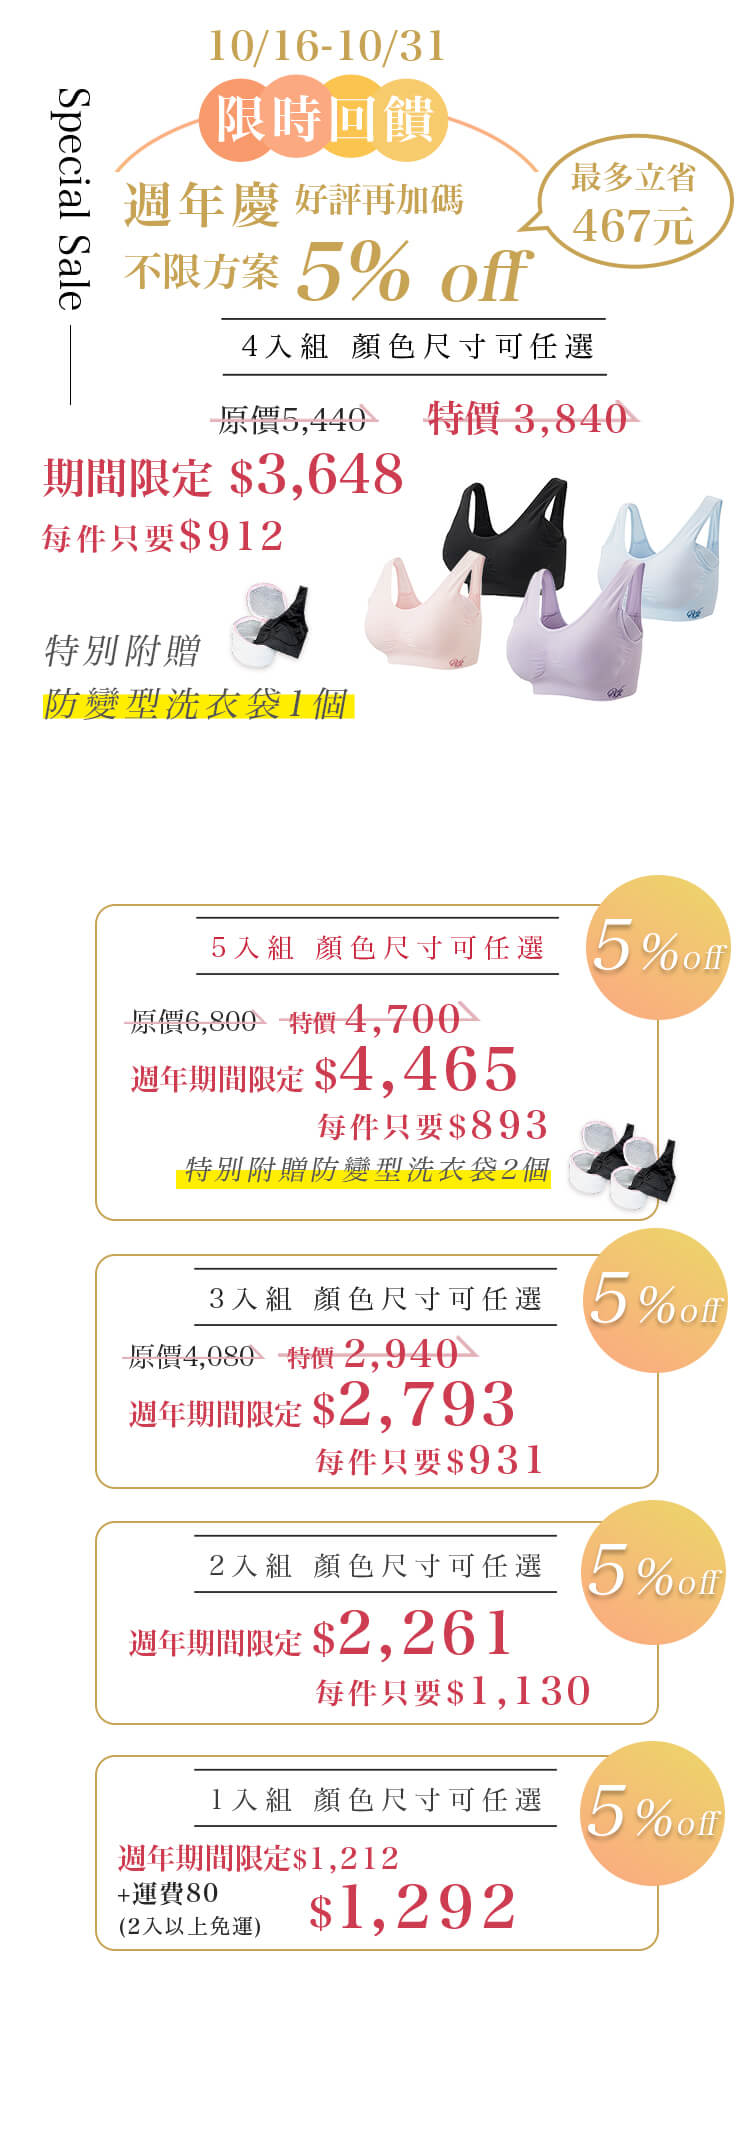
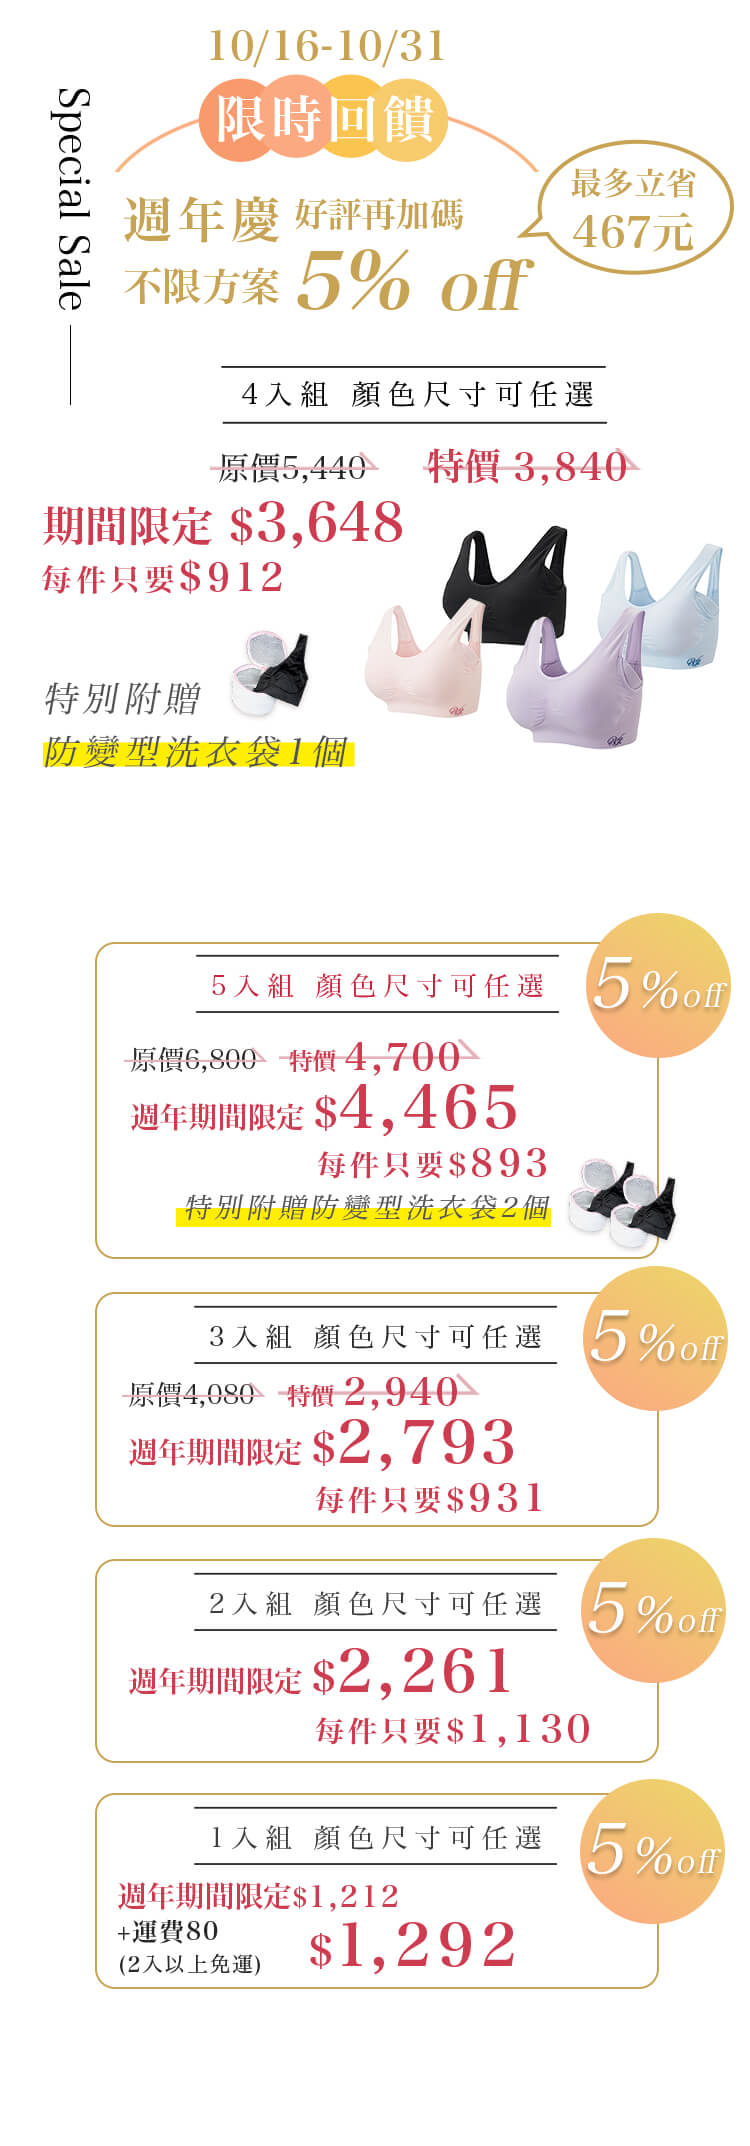
20201014_ delete youtube

diff --git a/index.html b/index.html
@@ -175,28 +175,12 @@
                     <img src="./img/01_banner.jpg" alt="">
                     <img src="./img/01.jpg" alt="">
                     <img src="./img/03.jpg" style="width:70%;" alt="">
-                    <div class="youtube pt-4 pb-5 mb-5" style="background-color: #FDEDF0;width: 70%;margin: 0 auto;">
-                        <img src="./img/yt_text.png" style="width:60%;" alt="">
-                        <iframe class="d-flex mx-auto mt-4" width="560" height="315"
-                            src="https://www.youtube.com/embed/YXofjqyOIJw?start=5" frameborder="0"
-                            allow="accelerometer; autoplay; clipboard-write; encrypted-media; gyroscope; picture-in-picture"
-                            allowfullscreen>
-                        </iframe>
-                    </div>
                     <img src="./img/ig_title.jpg" alt="" style="width:70%;">
                 </div>
                 <div class="SP">
                     <img src="./img/SP/SP_01_banner.jpg" alt="">
                     <img src="./img/SP/SP_01.jpg" alt="">
                     <img src="./img/SP/SP_03.jpg" alt="">
-                    <div class="youtube_m pt-4 pb-5 mb-4" style="background-color: #FDEDF0;width: 100%;margin: 0 auto;">
-                        <img src="./img/yt_text.png" style="width:90%;" alt="">
-                        <iframe class="d-flex mx-auto mt-4" width="75%" height="200"
-                            src="https://www.youtube.com/embed/YXofjqyOIJw?start=5" frameborder="0"
-                            allow="accelerometer; autoplay; clipboard-write; encrypted-media; gyroscope; picture-in-picture"
-                            allowfullscreen>
-                        </iframe>
-                    </div>
                     <img src="./img/SP/SP_ig_title.jpg" alt="">
                 </div>
                 <section id="report">

diff --git a/css/style.css b/css/style.css
@@ -27,7 +27,7 @@ html,body {
     position: absolute;
     width: 20%;
     display: block;
-    bottom: 9%;
+    bottom: 8%;
     right: 40%;
 }
 
@@ -40,7 +40,7 @@ html,body {
     width: 63%;
     display: block;
     right: 18%;
-    top: 35.5%;
+    top: 37.5%;
 }
 
 .SP .offerbox_m .offerbtn_m_2{
@@ -48,7 +48,7 @@ html,body {
     width: 63%;
     display: block;
     right: 18%;
-    bottom: 2.5%;
+    bottom: 1.5%;
 }
 
 .offerbtn:hover{
